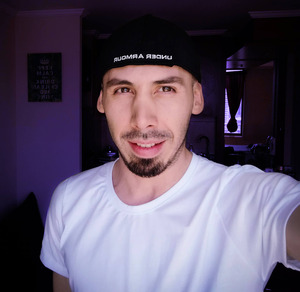
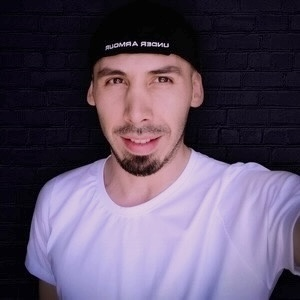
fix: removed unnecessary static files, profile img updated

diff --git a/src/routes/+page.svelte b/src/routes/+page.svelte
@@ -32,7 +32,7 @@
 	<section class="intro flex flex-col sm:flex-row mt-8 sm:mt-24 gap-10 sm:gap-14">
 		<div class="profile-img relative">
 			<img
-				src="/diego-2.jpg"
+				src="/diego.jpg"
 				fetchpriority="high"
 				alt="none"
 				class="rounded-full max-w-[230px] sm:max-w-[250px]"
